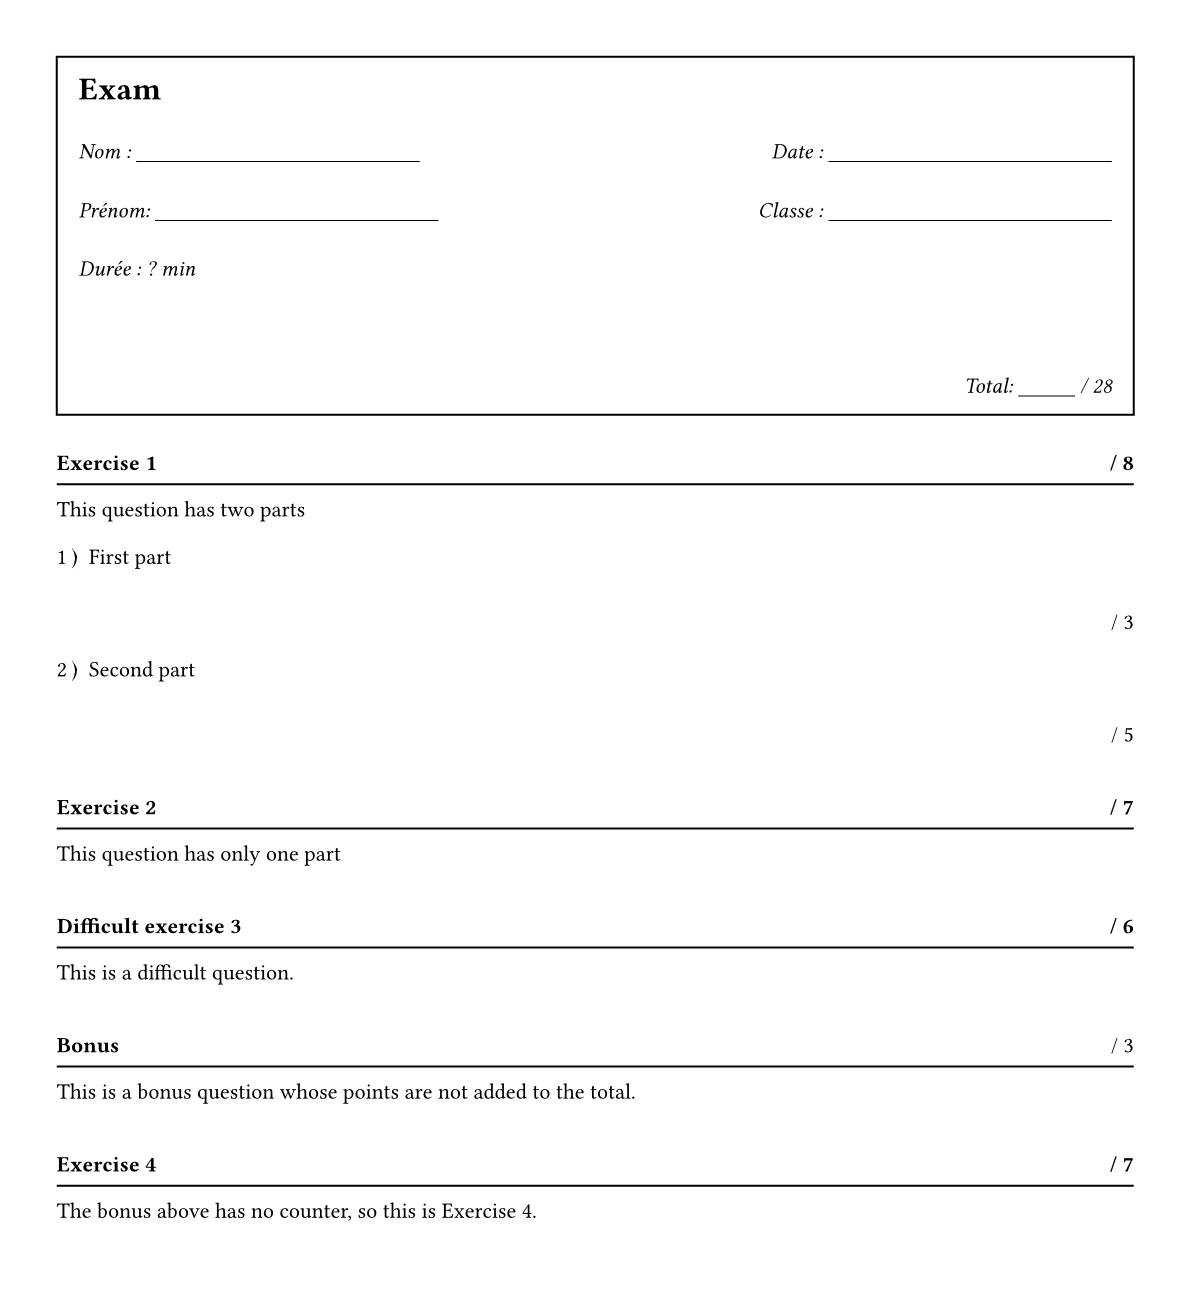
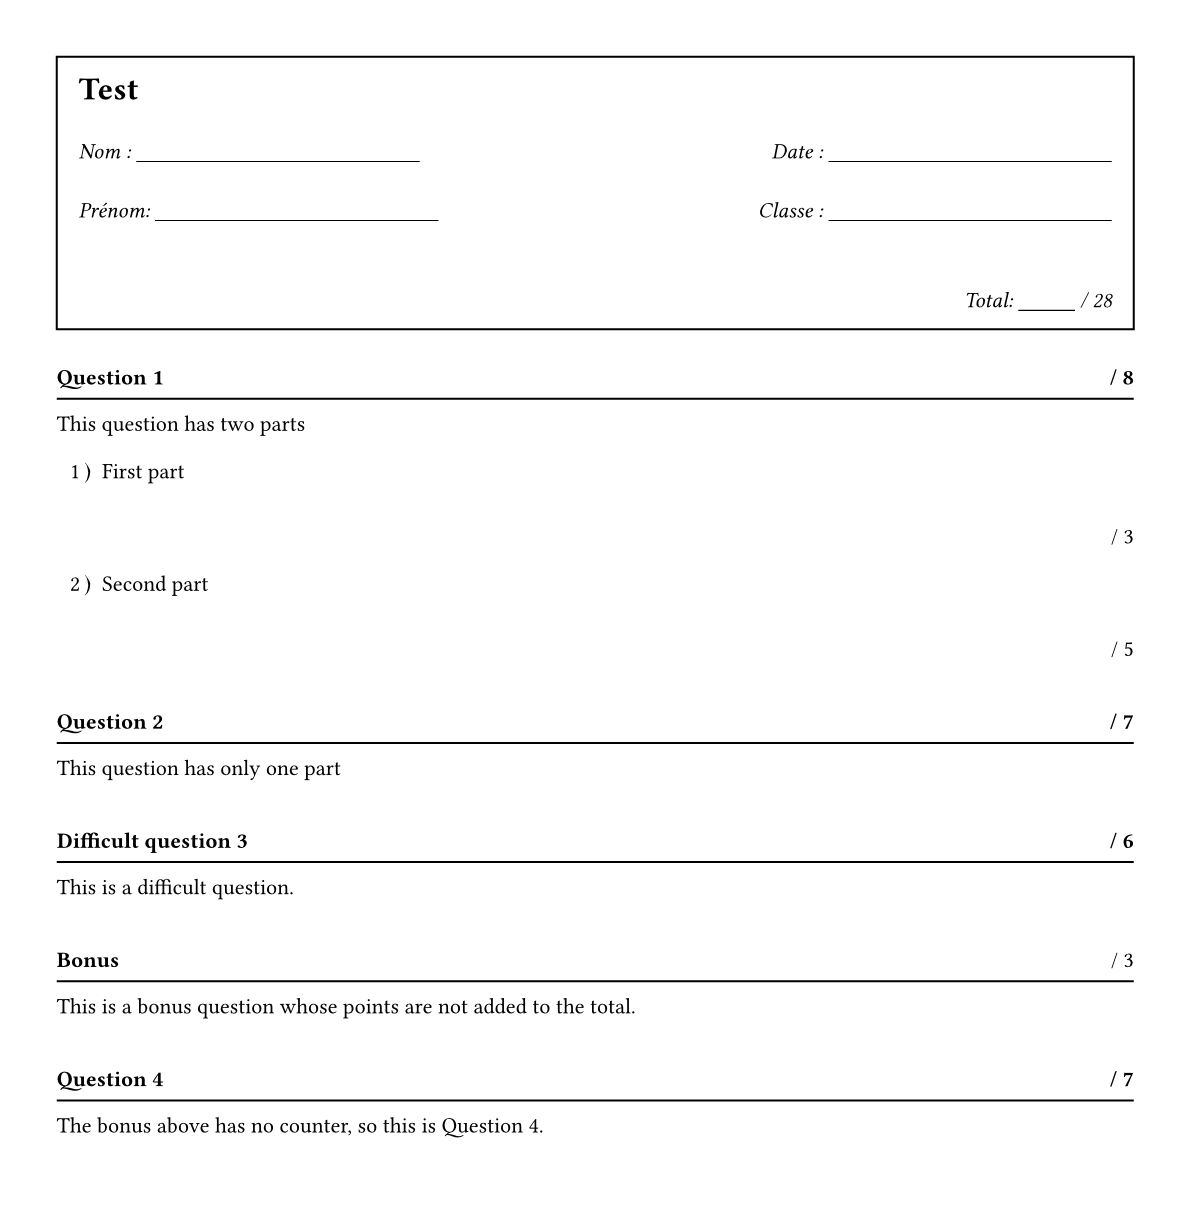
[update] exam example and readme

diff --git a/README.md b/README.md
@@ -19,8 +19,16 @@ French, German and English are supported and theorem titles depend on text langa
 ## Quickstart
 Simply download the package locally (as described on the [Typst Packages](https://github.com/typst/packages)) repository. Then import and use mathemateach. 
 
+```typst
+#import "@local/mathemateach:0.1.0": *
+```
+
+## Theorem styles
+
 ### simple theme
 ```typst
+#import "@local/mathemateach:0.1.0": *
+
 // import simple style
 #import theorem.simple: * 
 
@@ -146,3 +154,88 @@ Simply download the package locally (as described on the [Typst Packages](https:
 ```
 
 ![image](./theorem/examples/smallbox-test.png)
+
+
+## Exam styles
+
+### underline theme
+
+```typst
+#import "@local/mathemateach:0.1.0": *
+
+// import underline style
+#import exam.underline: *
+
+#set page(height: auto, margin: 1cm)
+
+// show exam header with total points
+#show: show-header
+
+// apply exam style
+#show: show-exam
+
+#question[
+  This question has two parts
+  #subquestion(points: 3)[First part #v(2em)]
+  #subquestion(points: 5)[Second part #v(2em)]
+]
+
+#question(points: 7)[
+  This question has only one part
+]
+
+#question(title: build-title("Difficult question"), points: 6)[This is a difficult question.]
+
+#question(title: [*Bonus* #h(1fr)/ 3], counter: none)[This is a bonus question whose points are not added to the total.]
+
+#question(points: 7, label: <this-question>)[
+  The bonus above has no counter, so this is @this-question.
+]
+
+```
+
+![image](./exam/examples/underline-test.png)
+
+### boxed-pts theme
+
+```typst
+#import "@local/mathemateach:0.1.0": *
+
+// import boxed-pts style
+#import exam.boxed-pts: *
+
+#set page(height: auto, margin: 1cm)
+
+// show exam header with total points
+#show: show-header
+
+// applies exam style
+#show: show-exam
+
+[...]
+
+```
+
+![image](./exam/examples/boxed-pts-test.png)
+
+### boxed-title theme
+
+```typst
+#import "@local/mathemateach:0.1.0": *
+
+// import boxed-title style
+#import exam.boxed-title: *
+
+// show exam header with total points
+#show: show-header
+
+#set page(height: auto, margin: 1cm)
+
+// applies exam style
+#show: show-exam
+
+[...]
+
+```
+
+![image](./exam/examples/boxed-title-test.png)
